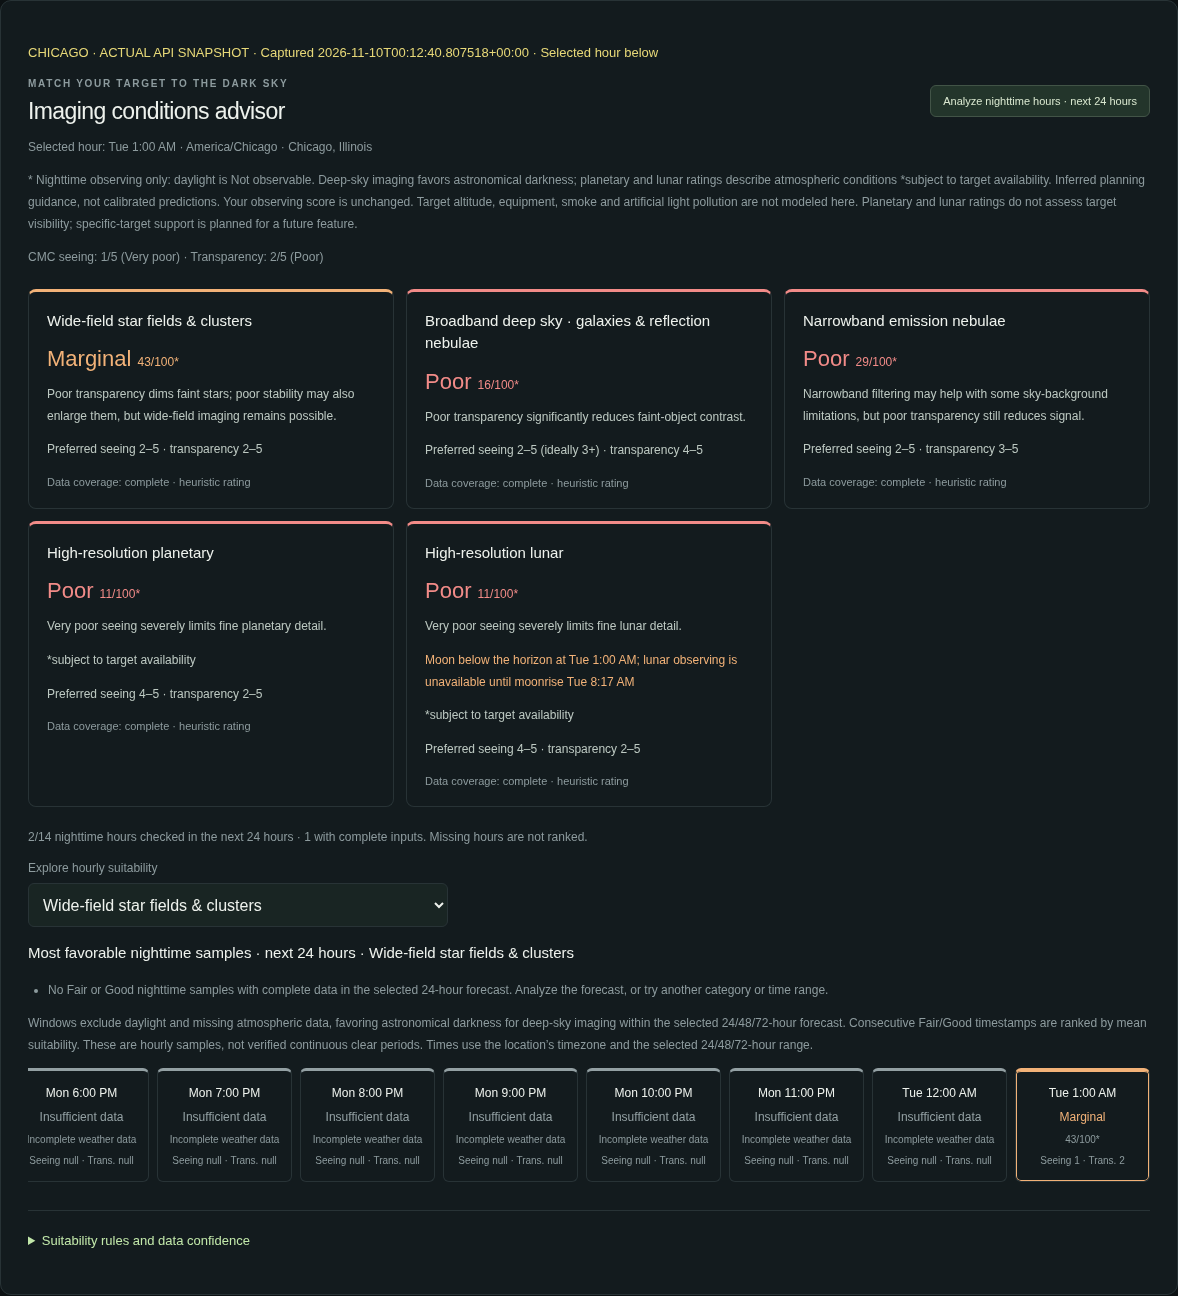
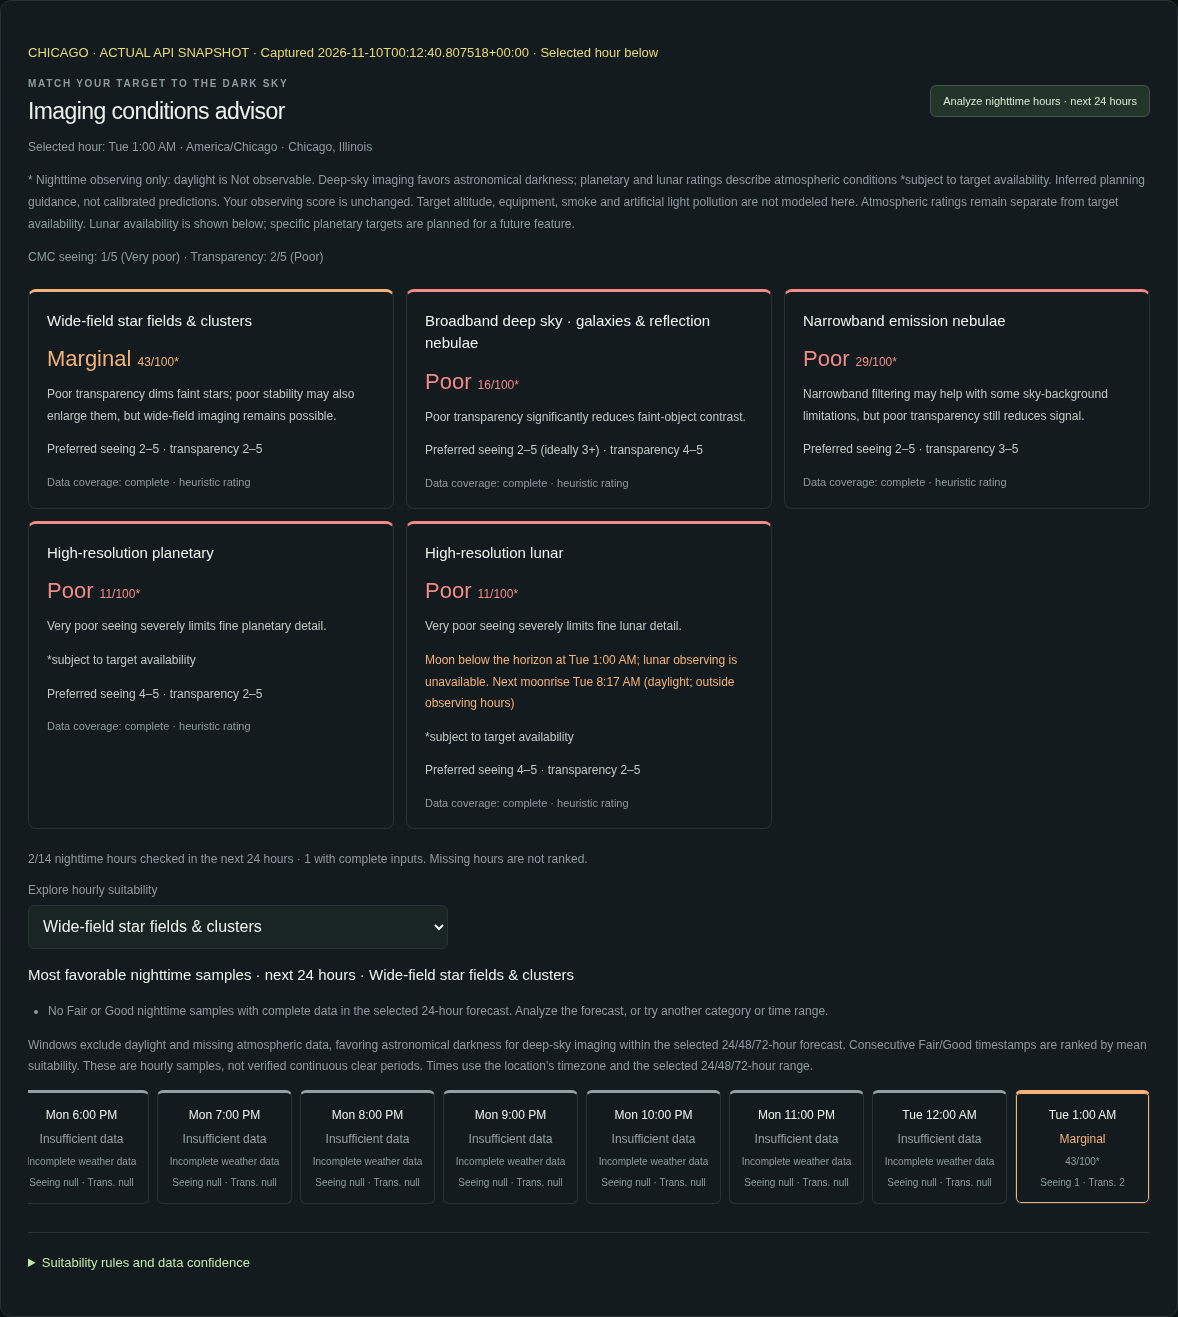
Identify daylight moonrises in lunar availability guidance

diff --git a/dist/index.html b/dist/index.html
@@ -1,7 +1,7 @@
 <!doctype html><html lang="en"><head><meta charset="utf-8"><meta name="viewport" content="width=device-width,initial-scale=1,viewport-fit=cover"><title>Nightwatch · Your sky, tonight</title><meta name="description" content="Your local 24-hour stargazing forecast, with hourly cloud cover, moonlight, and astronomical darkness."><link rel="stylesheet" href="vendor/leaflet/leaflet.css"><link rel="stylesheet" href="style.css"></head><body><header><a class="brand" href="."><span>✳</span> nightwatch<span class="brand-dot">.</span></a><div class="header-right"><span class="live-dot"></span> A little closer to the cosmos <select id="units" aria-label="Measurement units"><option value="imperial" selected>Imperial · °F / mph</option><option value="metric">Metric · °C / km/h</option></select><button id="red" aria-pressed="false" title="Dim the screen for dark adaptation">☾ <span>Night mode</span></button></div></header><main><section class="intro"><div class="eyebrow">LOOK UP. THERE’S A WHOLE UNIVERSE.</div><h1>Your sky, <em>tonight.</em></h1><p>A local forecast for your next moment under the stars.</p><div class="location-bar"><span>⌖</span><form id="search"><input id="city" aria-label="Search city" placeholder="Search a city…" autocomplete="off"><button aria-label="Search location">↗</button></form><span class="divider"></span><button id="locate">◎ Use my location</button></div><div id="results"></div><div class="location-caption"><span id="place">Flagstaff, Arizona · Example location</span><span id="updated">Connecting to the sky…</span></div></section><div id="status" role="status"></div><section class="hero"><div class="hero-copy"><div class="eyebrow"><span class="live-dot"></span> <span id="horizon-label">YOUR NEXT 24 HOURS</span></div><h2 id="headline">A night worth<br>looking up for.</h2><p id="summary">Loading your local observing conditions.</p><div class="hero-pills"><span id="best">✧ Inferred viewing scores</span><span id="dark">☾ Calculating darkness</span></div></div><div class="sky-art" aria-hidden="true"><div class="orbit o1"></div><div class="orbit o2"></div><div class="orbit o3"></div><div class="planet"></div><div class="star s1">✦</div><div class="star s2">✧</div><div class="star s3">·</div><span class="sky-label">THE NIGHT IS YOURS TO EXPLORE</span></div><div class="score"><span>VIEWING SCORE · INFERRED*</span><div><strong id="score">—</strong><small>/ 100</small></div><span id="rating">Selected-hour score · inferred*</span></div></section><section class="metrics"><article><span class="metric-icon">☁</span><div class="eyebrow">CLOUD COVER</div><strong id="cloud">—</strong><p>At the selected hour</p></article><article><span class="metric-icon">◑</span><div class="eyebrow">MOON ILLUMINATION</div><strong id="moon">—</strong><p id="phase">Calculated for tonight</p><p id="moon-card-times" class="astro-card-times"><span id="card-moonrise">Moonrise: null</span><span id="card-moonset">Moonset: null</span></p></article><article><span class="metric-icon">✧</span><div class="eyebrow">ASTRONOMICAL DARKNESS</div><strong id="darkhours">—</strong><p><span id="dark-caption">Sun below −18° · next 24 hours</span></p><p id="sun-card-times" class="astro-card-times"><span id="card-sunrise">Sunrise: null</span><span id="card-sunset">Sunset: null</span><span id="card-dusk">Astronomical dusk: null</span><span id="card-dawn">Astronomical dawn: null</span></p></article><article><span class="metric-icon">≋</span><div class="eyebrow">WIND SPEED</div><strong id="wind">—</strong><p>At the selected hour</p></article></section><section class="metrics additional"><article><div class="eyebrow">TRANSPARENCY</div><strong id="transparency">null</strong><p><span id="transparency-source">CMC data loads for the selected hour</span></p></article><article><div class="eyebrow">SEEING · CMC INDEX</div><strong id="seeing">null</strong><p><span id="seeing-source">CMC data loads for the selected hour</span></p></article><article><div class="eyebrow">RELATIVE HUMIDITY</div><strong id="humidity">null</strong><p>At the selected hour</p></article><article><div class="eyebrow">TEMPERATURE / DEW POINT</div><strong id="dewpoint">null</strong><p id="dewspread">At the selected hour</p></article></section><section class="forecast panel"><div class="section-heading"><div><div class="eyebrow">PLAN YOUR NIGHT</div><h2>The sky, hour by hour</h2></div><div class="forecast-controls"><div class="controls" role="tablist" aria-label="Forecast horizon"><button role="tab" aria-selected="true" data-range="24" class="active">24 hours</button><button role="tab" aria-selected="false" data-range="48">48 hours</button><button role="tab" aria-selected="false" data-range="72">72 hours</button></div><div class="controls"><button id="all" class="active">All hours</button><button id="night">Nighttime</button></div></div></div><div class="legend viewing-legend"><span class="viewing-key poor"><i></i>Poor · 0–39</span><span class="viewing-key marginal"><i></i>Marginal · 40–54</span><span class="viewing-key fair"><i></i>Fair · 55–69</span><span class="viewing-key good"><i></i>Good · 70–100</span><small id="zone">Times at forecast location</small></div><div class="hour-scroll"><div id="hours" class="hours"><p>Fetching hourly forecast…</p></div></div><p class="precipitation-method">Precipitation amounts are 1-hour totals ending at the shown hour, including liquid-equivalent snow. The percentage is precipitation chance; missing amounts or chances remain null.</p><p id="condensation-method" class="condensation-method"></p><p class="score-footnote">* Viewing score is inferred using a custom, uncalibrated formula: clouds 60%, humidity 15%, wind 10%, and moonlight 15%, reduced during twilight and set to zero in daylight. It is not a CMC forecast or a measurement of seeing or transparency. It excludes light pollution and smoke. Missing inputs return null. <button id="score-method">View the formula ↗</button></p><p id="cmc-status" class="cmc-status" role="status"></p><div id="detail" class="detail">Select an hour to explore its conditions.</div></section><section class="panel imaging-panel" id="imaging-panel" aria-labelledby="imaging-title">
 <div class="section-heading"><div><div class="eyebrow">MATCH YOUR TARGET TO THE DARK SKY</div><h2 id="imaging-title">Imaging conditions advisor</h2></div><div class="map-actions"><button id="imaging-analyze">Analyze hourly forecast</button><button id="imaging-cancel" hidden>Stop analysis</button></div></div>
 <p id="imaging-time" class="imaging-note">Waiting for the forecast location…</p>
-<p class="imaging-note">* Nighttime observing only: daylight is Not observable. Deep-sky imaging favors astronomical darkness; planetary and lunar ratings describe atmospheric conditions *subject to target availability. Inferred planning guidance, not calibrated predictions. Your observing score is unchanged. Target altitude, equipment, smoke and artificial light pollution are not modeled here. Planetary and lunar ratings do not assess target visibility; specific-target support is planned for a future feature.</p>
+<p class="imaging-note">* Nighttime observing only: daylight is Not observable. Deep-sky imaging favors astronomical darkness; planetary and lunar ratings describe atmospheric conditions *subject to target availability. Inferred planning guidance, not calibrated predictions. Your observing score is unchanged. Target altitude, equipment, smoke and artificial light pollution are not modeled here. Atmospheric ratings remain separate from target availability. Lunar availability is shown below; specific planetary targets are planned for a future feature.</p>
 <p id="imaging-inputs" class="imaging-note">CMC seeing: null · Transparency: null</p>
 <div id="imaging-cards" class="imaging-cards"></div>
 <p id="imaging-progress" class="imaging-note" role="status">Hourly CMC analysis loads on request using the existing forecast provider.</p>

diff --git a/dist/app.js b/dist/app.js
@@ -6,7 +6,7 @@ function precipAmount(v){return display(NightwatchWeather.precipitation(v,units)
 function dewAdvice(h){if(!h||![h.temp,h.dew,h.humidity].every(finite))return {use:null,text:'Required temperature, dew point, or humidity data is unavailable. Recommendation: null.'};const spread=h.temp-h.dew;return spread<=3||h.humidity>=85?{use:true,text:'Use a dew heater at low power and monitor your optics. The forecast meets the humidity ≥85% or temperature/dew-point spread ≤3°C (5.4°F) threshold.'}:{use:false,text:'A dew heater is not indicated by the forecast thresholds at this hour. Keep it available and inspect your optics: radiative cooling can still cause dew.'}}
 async function json(url){const r=await fetch(url,{signal:AbortSignal.timeout(18000)});if(!r.ok)throw Error('Service returned '+r.status);return r.json()}
 function fmt(d,opts={weekday:'short',hour:'numeric',minute:'2-digit'}){if(!d||!Number.isFinite(+d))return 'null';return new Intl.DateTimeFormat('en-US',{timeZone:state.zone,...opts}).format(d)}
-async function load(lat,lon,name){const token=++request;imagingRun++;if(state)state.imagingRunning=false;$('status').textContent='Updating local forecast…';try{const data=await json('https://api.open-meteo.com/v1/forecast?latitude='+lat+'&longitude='+lon+'&hourly=temperature_2m,dew_point_2m,relative_humidity_2m,cloud_cover,wind_speed_10m,precipitation_probability,precipitation&forecast_days=5&timezone=auto&timeformat=unixtime');if(token!==request)return;const now=new Date(),dates=NightwatchTime.periods(now,data.timezone||'UTC',72);const moonEvents=NightwatchMoon.events(new Date(+dates[0]-86400000),new Date(Math.max(+dates.at(-1)+3600000,+now+72*3600000)),lat,lon,SunCalc);const byTime=new Map((data.hourly?.time||[]).map((t,i)=>[t*1000,i]));const hours=dates.map(date=>{const i=byTime.get(+date),get=k=>i===undefined?null:value(data.hourly[k]?.[i]);return {date,moonAvailability:NightwatchMoon.at(new Date(Math.max(+date,+now)),moonEvents,lat,lon,SunCalc),solar:NightwatchObservability.solarAt(date,lat,lon,SunCalc),sun:SunCalc.getPosition(date,lat,lon).altitude*rad,moonAlt:SunCalc.getMoonPosition(date,lat,lon).altitude*rad,moonIllum:SunCalc.getMoonIllumination(date).fraction,cloud:get('cloud_cover'),humidity:get('relative_humidity_2m'),wind:get('wind_speed_10m'),temp:get('temperature_2m'),dew:get('dew_point_2m'),rain:get('precipitation_probability'),precip:get('precipitation'),transparency:null,seeing:null,score:null}});hours.forEach(h=>h.score=NightwatchScore.infer(h));state={lat,lon,name,zone:data.timezone||'UTC',hours,moon:SunCalc.getMoonIllumination(now),now};selected=0;render();renderLocalSky();loadLocalSky(state);const missing=hours.some(h=>[h.cloud,h.humidity,h.wind,h.temp,h.dew,h.rain,h.precip].some(v=>v===null));$('status').textContent=missing?'Some forecast values are unavailable and shown as null.':'';try{localStorage.setItem('nightwatch-location',JSON.stringify({lat,lon,name}))}catch{}}catch(e){if(token===request){$('status').textContent='Couldn’t update the forecast. Try again. '+(state?'Previous location and update time remain displayed.':'');if(!state){$('updated').textContent='Live forecast unavailable';$('headline').textContent='The sky will be here.';$('summary').textContent='Search a city or use your location to try again.';}}}}
+async function load(lat,lon,name){const token=++request;imagingRun++;if(state)state.imagingRunning=false;$('status').textContent='Updating local forecast…';try{const data=await json('https://api.open-meteo.com/v1/forecast?latitude='+lat+'&longitude='+lon+'&hourly=temperature_2m,dew_point_2m,relative_humidity_2m,cloud_cover,wind_speed_10m,precipitation_probability,precipitation&forecast_days=5&timezone=auto&timeformat=unixtime');if(token!==request)return;const now=new Date(),dates=NightwatchTime.periods(now,data.timezone||'UTC',72);const moonEvents=NightwatchMoon.events(new Date(+dates[0]-86400000),new Date(Math.max(+dates.at(-1)+3600000,+now+72*3600000)),lat,lon,SunCalc).map(e=>({...e,daylight:NightwatchObservability.solarAt(e.date,lat,lon,SunCalc).daylight}));const byTime=new Map((data.hourly?.time||[]).map((t,i)=>[t*1000,i]));const hours=dates.map(date=>{const i=byTime.get(+date),get=k=>i===undefined?null:value(data.hourly[k]?.[i]);return {date,moonAvailability:NightwatchMoon.at(new Date(Math.max(+date,+now)),moonEvents,lat,lon,SunCalc),solar:NightwatchObservability.solarAt(date,lat,lon,SunCalc),sun:SunCalc.getPosition(date,lat,lon).altitude*rad,moonAlt:SunCalc.getMoonPosition(date,lat,lon).altitude*rad,moonIllum:SunCalc.getMoonIllumination(date).fraction,cloud:get('cloud_cover'),humidity:get('relative_humidity_2m'),wind:get('wind_speed_10m'),temp:get('temperature_2m'),dew:get('dew_point_2m'),rain:get('precipitation_probability'),precip:get('precipitation'),transparency:null,seeing:null,score:null}});hours.forEach(h=>h.score=NightwatchScore.infer(h));state={lat,lon,name,zone:data.timezone||'UTC',hours,moon:SunCalc.getMoonIllumination(now),now};selected=0;render();renderLocalSky();loadLocalSky(state);const missing=hours.some(h=>[h.cloud,h.humidity,h.wind,h.temp,h.dew,h.rain,h.precip].some(v=>v===null));$('status').textContent=missing?'Some forecast values are unavailable and shown as null.':'';try{localStorage.setItem('nightwatch-location',JSON.stringify({lat,lon,name}))}catch{}}catch(e){if(token===request){$('status').textContent='Couldn’t update the forecast. Try again. '+(state?'Previous location and update time remain displayed.':'');if(!state){$('updated').textContent='Live forecast unavailable';$('headline').textContent='The sky will be here.';$('summary').textContent='Search a city or use your location to try again.';}}}}
 function astronomy(){const end=+state.now+horizon*3600000,samples=[];for(let t=+state.now;t<=end;t+=60000)samples.push({date:new Date(t),alt:SunCalc.getPosition(new Date(t),state.lat,state.lon).altitude*rad});let darkMinutes=0;const events=[];for(let i=1;i<samples.length;i++){if(samples[i-1].alt<-18)darkMinutes++;for(const [alt,label,icon,sub] of [[-.833,'Sunset','☀','The Sun dips below the horizon'],[-18,'Astronomical dusk','✦','True darkness begins']]){if(samples[i-1].alt>=alt&&samples[i].alt<alt)events.push({date:samples[i].date,label,icon,sub});if(samples[i-1].alt<alt&&samples[i].alt>=alt)events.push({date:samples[i].date,label:alt===-18?'Astronomical dawn':'Sunrise',icon:alt===-18?'✧':'☀',sub:alt===-18?'True darkness ends':'The Sun returns above the horizon'});}}events.push(...NightwatchMoon.events(state.now,new Date(end),state.lat,state.lon,SunCalc));events.sort((a,b)=>+a.date-+b.date);for(const label of ['Moonrise','Moonset'])if(!events.some(e=>e.label===label))events.push({date:null,label,icon:'☾',sub:'No '+label.toLowerCase()+' in the next '+horizon+' hours; time is null.'});return{darkMinutes,events}}
 function renderCardTimes(events){
  const moon={rise:events.find(e=>e.label==='Moonrise')?.date??null,set:events.find(e=>e.label==='Moonset')?.date??null};

diff --git a/dist/imaging-ui.js b/dist/imaging-ui.js
@@ -12,7 +12,7 @@ function render(state,horizon,selected,format,onSelect){
  $('imaging-inputs').textContent=selectedDark?'CMC seeing: '+indexText(h.seeing)+' · Transparency: '+indexText(h.transparency):hours.length?'The selected weather hour is Not observable in daylight. Choose a nighttime hour below to view imaging advice.':'No nighttime hours in the selected '+horizon+'-hour forecast. Try a longer forecast range.';
  const lunarUp=NightwatchMoon.isUp(h),limit=+state.now+horizon*3600000,availability={...h.moonAvailability};
  for(const key of ['nextRise','nextSet'])if(!availability[key]||+availability[key]>=limit)availability[key]=null;
- const lunarText=lunarUp===true?'Moon above the horizon'+(availability.time?' at '+format(new Date(availability.time)):'')+(availability?.nextSet?' · Moonset '+format(new Date(availability.nextSet)): ' · Moonset: null in this forecast range'):lunarUp===false?'Moon below the horizon'+(availability.time?' at '+format(new Date(availability.time)):'')+'; lunar observing is unavailable'+(availability?.nextRise?' until moonrise '+format(new Date(availability.nextRise)): ' · Moonrise: null in this forecast range'):'Moon availability: null';
+ const lunarText=lunarUp===true?'Moon above the horizon'+(availability.time?' at '+format(new Date(availability.time)):'')+(availability?.nextSet?' · Moonset '+format(new Date(availability.nextSet)): ' · Moonset: null in this forecast range'):lunarUp===false?'Moon below the horizon'+(availability.time?' at '+format(new Date(availability.time)):'')+'; lunar observing is unavailable.'+(availability?.nextRise?' Next moonrise '+format(new Date(availability.nextRise))+(availability.nextRiseDaylight===true?' (daylight; outside observing hours)':''): ' · Moonrise: null in this forecast range'):'Moon availability: null';
  const preferred=id=>{const p=NightwatchImaging.config.categories[id].preferred;return 'Preferred seeing '+p.seeing.join('–')+(p.seeingIdeal?' (ideally '+p.seeingIdeal+'+)':'')+' · transparency '+p.transparency.join('–');};
  $('imaging-cards').innerHTML=ratings.map(r=>'<article class="imaging-card imaging-'+r.band+'"><h3>'+escape(r.label)+'</h3><div class="imaging-rating">'+r.rating+(r.score===null?'':' <small>'+r.score+'/100*</small>')+'</div><p>'+escape(r.explanation)+'</p>'+(r.id==='lunar'?'<p class="lunar-availability" data-availability="'+(lunarUp===true?'up':lunarUp===false?'down':'unknown')+'">'+escape(lunarText)+'</p>':'')+''+(r.targetNote?'<p class="imaging-target-note">'+escape(r.targetNote)+'</p>':'')+'<p class="imaging-preferences">'+preferred(r.id)+'</p><small>Data coverage: '+(r.confidence==='ineligible'?'ineligible · '+escape(r.eligibility.reason):r.confidence==='complete'?'complete · heuristic rating':'incomplete · confidence insufficient')+'</small></article>').join('');
  const done=hours.filter(h=>h.cmc).length,complete=hours.filter(h=>NightwatchImaging.analyze(h)[0].score!==null).length;

diff --git a/dist/moon-events.js b/dist/moon-events.js
@@ -20,7 +20,8 @@ function at(date,list,lat,lon,astro){
  const altitude=astro.getMoonPosition(date,lat,lon).altitude*180/Math.PI;
  // Match SunCalc.getMoonTimes' 0.133° apparent-altitude horizon convention.
  const above=previous?previous.kind==='rise':next?next.kind==='set':finite(altitude)?altitude>=.133:null;
- return {above,time:new Date(t),nextRise:list.find(e=>e.kind==='rise'&&+e.date>t)?.date??null,nextSet:list.find(e=>e.kind==='set'&&+e.date>t)?.date??null};
+ const rise=list.find(e=>e.kind==='rise'&&+e.date>t),set=list.find(e=>e.kind==='set'&&+e.date>t);
+ return {above,time:new Date(t),nextRise:rise?.date??null,nextRiseDaylight:rise?.daylight??null,nextSet:set?.date??null};
 }
 function isUp(h){return typeof h?.moonAvailability?.above==='boolean'?h.moonAvailability.above:finite(h?.moonAlt)?h.moonAlt>=.133:null}
 root.NightwatchMoon={events,at,isUp};

diff --git a/docs/imaging-advisor.md b/docs/imaging-advisor.md
@@ -137,3 +137,5 @@ Lunar atmospheric suitability is unchanged and still carries `*subject to target
 For the current calendar-hour sample, Moon availability is evaluated at `max(periodStart, forecastUpdatedAt)`, so a rise/set already passed inside the current hour is not presented as still in the future. Availability carries its own displayed timestamp. Future samples use their own start timestamps. Next-crossing advice is clipped to the selected forecast range; absent crossings remain null. There is no independent live clock refresh beyond the app’s normal forecast updates.
 
 Lunar best-observing windows require both the existing nighttime/weather criteria and Moon-up availability; Moon-down and unknown-availability samples break groups and do not enter averages. Their atmospheric weather ratings are retained in the strip with a separate Moon-up/down label. No generic planetary-target requirement is introduced, and no weather values or overall observing-score formula changes.
+
+A next moonrise that falls between local sunrise and sunset is explicitly labeled daylight/outside observing hours. Giving its crossing time does not recommend daytime lunar observing.
